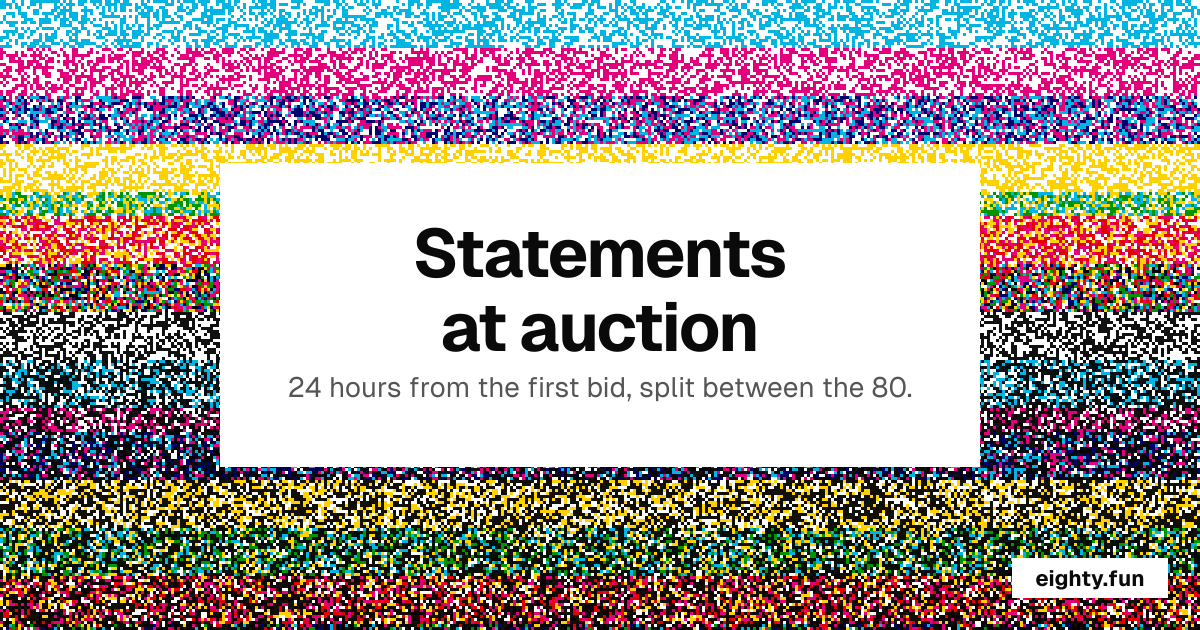
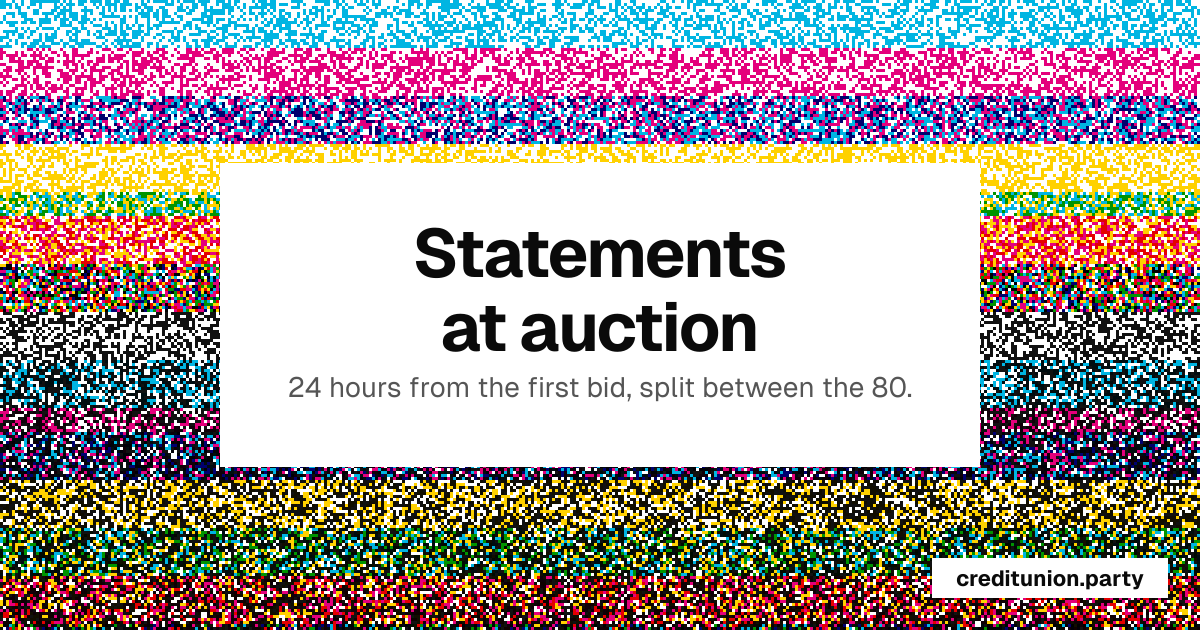
Move to creditunion.party; eighty.fun and eighty.rhps.fun redirect
Claude-Session: https://claude.ai/code/session_01SKTts4AuFnAxuUg3r1JJKx

Changed region(s): [[0.7708, 0.8746, 0.9558, 0.9651]]

diff --git a/web/scripts/og.ts b/web/scripts/og.ts
@@ -99,8 +99,8 @@ function card(name: string, ground: Buffer, title: string[], line: string) {
   <rect x="${x}" y="${y}" width="${labelW}" height="${labelH}" fill="#fff"/>
   ${title.map((t, i) => `<text x="${W / 2}" y="${y + pad + 58 + i * lh}" text-anchor="middle" font-family="Geist" font-weight="700" font-size="68" letter-spacing="-2" fill="#0a0a0a">${esc(t)}</text>`).join('')}
   <text x="${W / 2}" y="${y + pad + title.length * lh + 30}" text-anchor="middle" font-family="Geist" font-size="28" fill="#555">${esc(line)}</text>
-  <rect x="${W - 188}" y="${H - 72}" width="156" height="40" fill="#fff"/>
-  <text x="${W - 110}" y="${H - 44}" text-anchor="middle" font-family="Geist" font-weight="700" font-size="22" fill="#0a0a0a">eighty.fun</text>
+  <rect x="${W - 268}" y="${H - 72}" width="236" height="40" fill="#fff"/>
+  <text x="${W - 150}" y="${H - 44}" text-anchor="middle" font-family="Geist" font-weight="700" font-size="22" fill="#0a0a0a">creditunion.party</text>
 </svg>`;
   const out = execFileSync('rsvg-convert', ['-w', String(W), '-h', String(H), '-f', 'png'], { input: svg, maxBuffer: 64 << 20 });
   writeFileSync(pub(`og/${name}.png`), out);

diff --git a/web/src/worker/index.ts b/web/src/worker/index.ts
@@ -56,6 +56,8 @@ const MAX_RPC_BATCH = 50;
 const SUPPLY = 122_154;
 const inSupply = (id: number) => Number.isInteger(id) && id >= 1 && id <= SUPPLY;
 
+/// The site's home. eighty.fun and eighty.rhps.fun redirect here.
+const SITE_HOST = 'creditunion.party';
 const rpcUrl = (env: Env) => env.RPC_URL || env.FALLBACK_RPC;
 /// Listing scans in progress, per batch, so a burst of quotes costs one scan.
 const inflight = new Map<string, Promise<Awaited<ReturnType<typeof scan>>>>();
@@ -162,6 +164,9 @@ function sameSite(req: Request) {
 export default {
   async fetch(req, env, ctx): Promise<Response> {
     const url = new URL(req.url);
+    // The old domains send pages to the new one (same path), so shared links keep working.
+    if (url.hostname === 'eighty.fun' || url.hostname === 'www.eighty.fun' || url.hostname === 'eighty.rhps.fun')
+      return Response.redirect(`https://${SITE_HOST}${url.pathname}${url.search}`, 301);
     let res: Response;
     try {
       res = await handle(req, env, ctx, url);

diff --git a/web/src/worker/card.ts b/web/src/worker/card.ts
@@ -197,7 +197,7 @@ export async function drawParty(fetcher: Fetcher, origin: string, p: PartyCard):
     c.text(BODY, sub, x0, statY + 50, MUTED);
   }
 
-  c.text(LABEL, 'eighty.fun', x0, H - 44, INK);
+  c.text(LABEL, 'creditunion.party', x0, H - 44, INK);
   return png(c.px);
 }
 

diff --git a/README.md b/README.md
@@ -1,6 +1,6 @@
-<a href="https://eighty.fun"><img src="docs/banner.jpg" alt="Eighty: turn 80 Credits into a Statement, together"></a>
+<a href="https://creditunion.party"><img src="docs/banner.jpg" alt="Eighty: turn 80 Credits into a Statement, together"></a>
 
-<p align="center"><b><a href="https://eighty.fun">eighty.fun</a></b> · <a href="#how-a-party-works">How it works</a> · <a href="contracts/AUDIT.md">Audit</a> · <a href="contracts/ADAPTER.md">Adapter plan</a> · <a href="#deployed-addresses">Addresses</a></p>
+<p align="center"><b><a href="https://creditunion.party">creditunion.party</a></b> · <a href="#how-a-party-works">How it works</a> · <a href="contracts/AUDIT.md">Audit</a> · <a href="contracts/ADAPTER.md">Adapter plan</a> · <a href="#deployed-addresses">Addresses</a></p>
 
 # Eighty
 

diff --git a/contracts/ADAPTER.md b/contracts/ADAPTER.md
@@ -72,7 +72,7 @@ wait on a stranger. **Guess:** only 1,526 Statements can ever exist, so there ma
 2. **Adversarial cases:**
    - An adapter that doesn't burn, keeps the Statement, returns a wrong id or reenters: every one must revert.
    - These already exist for the mock adapter in `contracts/test/` and get rerun against the real one.
-3. **Sepolia:** if Jack deploys a test version of his contract, we repeat the full flow on eighty.fun's
+3. **Sepolia:** if Jack deploys a test version of his contract, we repeat the full flow on the site's
    testnet. If he doesn't, we run a Sepolia stand-in with the same interface.
 4. **Review:** the adapter goes through the same internal audit process as the rest (`AUDIT.md`), with the
    findings and fixes written up before proposing.
